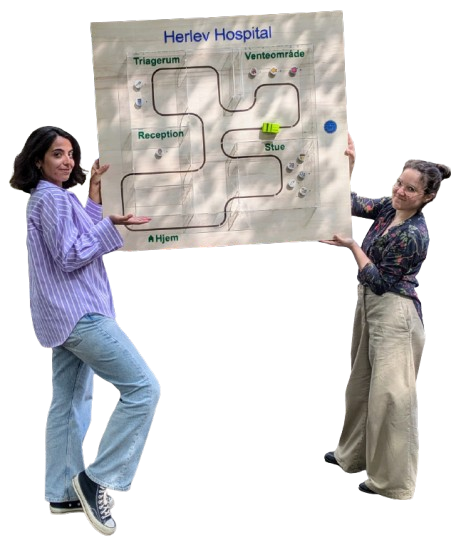
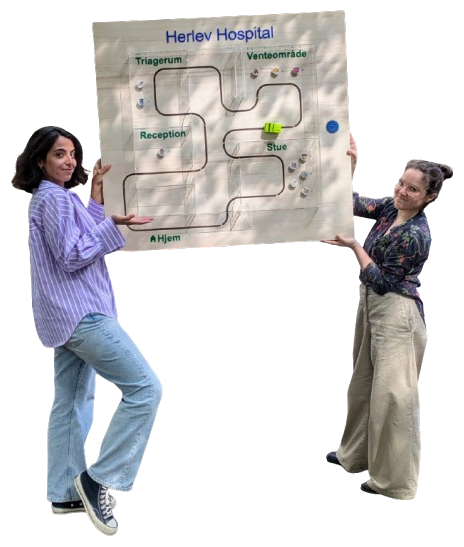
bubble closing functonality

diff --git a/src/content/aboutStickers.ts b/src/content/aboutStickers.ts
@@ -18,6 +18,7 @@ export type AboutSticker = {
     href: string
     label: string
   }
+  textAfterLink?: string
   position: string
   size: string
   rotation: string
@@ -26,33 +27,33 @@ export type AboutSticker = {
 
 export const aboutStickers: AboutSticker[] = [
   {
-    id: 'basketball',
-    image: basketballSticker,
-    alt: 'Basketball sticker',
-    text: 'Love basketball. Olympiakos!',
-    position: 'bottom-[78%] left-[2%]',
-    size: 'w-[clamp(4.5rem,8vw,6rem)]',
-    rotation: 'rotate-[-9deg]',
-    bubbleSide: 'bottom'
+    id: 'greece',
+    image: greeceSticker,
+    alt: 'Greece sticker',
+    text: "Yep I'm greek. (It's pronounced 'Yeeros' not 'Jairos')",
+    position: 'bottom-[8%] left-[84%]',
+    size: 'w-[clamp(4.5rem,8vw,9rem)]',
+    rotation: 'rotate-[-30deg]',
+    bubbleSide: 'top'
+  },
+  {
+    id: 'bike',
+    image: bikeSticker,
+    alt: 'Bike sticker',
+    text: "Based in Copenhagen. Came for my studies, stayed for the pastries.",
+    position: 'bottom-[72%] left-[40%]',
+    size: 'w-[clamp(4.5rem,8vw,25rem)]',
+    rotation: 'rotate-[6deg]',
+    bubbleSide: 'top'
   },
   {
     id: 'phone',
     image: phoneSticker,
     alt: 'Phone sticker',
-    text: 'Always happy to chat! +4591811810',
-    position: 'bottom-[5%] left-[12%]',
+    text: 'Always happy to chat! +45 91811810',
+    position: 'bottom-[5%] left-[16%]',
     size: 'w-[clamp(4.5rem,8vw,7rem)]',
     rotation: 'rotate-[10deg]',
-    bubbleSide: 'top'
-  },
-  {
-    id: 'greece',
-    image: greeceSticker,
-    alt: 'Greece sticker',
-    text: "Yep I'm greek. (It's pronounced 'Yeeros' not 'Jairos')",
-    position: 'bottom-[8%] left-[82%]',
-    size: 'w-[clamp(4.5rem,8vw,9rem)]',
-    rotation: 'rotate-[0deg]',
     bubbleSide: 'top'
   },
   {
@@ -74,50 +75,42 @@ export const aboutStickers: AboutSticker[] = [
       href: 'https://www.linkedin.com/in/georgia-tsoukala-5144a4245/',
       label: 'LinkedIn',
     },
-    position: 'bottom-[75%] left-[90%]',
+    textAfterLink: '.',
+    position: 'bottom-[75%] left-[92%]',
     size: 'w-[clamp(4.5rem,8vw,5rem)]',
     rotation: 'rotate-[15deg]',
-    bubbleSide: 'top'
-  },
-  {
-    id: 'bike',
-    image: bikeSticker,
-    alt: 'Bike sticker',
-    text: "Based in Copenhagen.",
-    position: 'bottom-[72%] left-[40%]',
-    size: 'w-[clamp(4.5rem,8vw,25rem)]',
-    rotation: 'rotate-[6deg]',
     bubbleSide: 'top'
   },
   {
     id: 'github',
     image: githubSticker,
     alt: 'Github sticker',
-    text: "Wanna take a closer look at my projects?",
+    text: "Wanna take a closer look at my",
     link: {
       href: 'https://github.com/GeorgiaTsoukala',
       label: 'Github',
     },
+    textAfterLink: ' projects?',
     position: 'bottom-[22%] left-[35%]',
     size: 'w-[clamp(4.5rem,8vw,5.5rem)]',
     rotation: 'rotate-[-6deg]',
-    bubbleSide: 'top'
+    bubbleSide: 'bottom'
   },
   {
-    id: 'dtuCompute',
-    image: dtuComputeSticker,
-    alt: 'DtuCompute sticker',
-    text: "I was a TA.",
-    position: 'bottom-[65%] left-[23%]',
-    size: 'w-[clamp(4.5rem,8vw,5rem)]',
-    rotation: 'rotate-[3deg]',
+    id: 'bachelor',
+    image: masterSticker,
+    alt: 'Master sticker',
+    text: "Electrical & Computer Engineering survivor 🎓. UTh is where I learned to code and where it all started!",
+    position: 'bottom-[33%] left-[7%]',
+    size: 'w-[clamp(4.5rem,8vw,7rem)]',
+    rotation: 'rotate-[-5deg]',
     bubbleSide: 'top'
   },
   {
     id: 'internship',
     image: internshipSticker,
     alt: 'Internship sticker',
-    text: "Yep I'm greek. (It's pronounced 'Yeeros' not 'Jairos')",
+    text: "Interning at Theron Engineering was where I helped coordinate projects and saw how different engineering fields work together.",
     position: 'bottom-[2%] left-[55%]',
     size: 'w-[clamp(4.5rem,8vw,9rem)]',
     rotation: 'rotate-[4deg]',
@@ -127,10 +120,30 @@ export const aboutStickers: AboutSticker[] = [
     id: 'master',
     image: masterSticker,
     alt: 'Master sticker',
-    text: "master at DTU 🎓",
-    position: 'bottom-[80%] left-[63%]',
+    text: "That’s me, my thesis partner and our prototype for Herlev Hospital. My Human-Centered AI Master’s at DTU shifted my focus to the people who use my code.",
+    position: 'bottom-[83%] left-[63%]',
     size: 'w-[clamp(4.5rem,8vw,7rem)]',
     rotation: 'rotate-[-5deg]',
+    bubbleSide: 'bottom'
+  },
+  {
+    id: 'dtuCompute',
+    image: dtuComputeSticker,
+    alt: 'DtuCompute sticker',
+    text: "As a TA for Personal Data Interaction, I helped students tackle the world of HCI and data visualization.",
+    position: 'bottom-[65%] left-[23%]',
+    size: 'w-[clamp(4.5rem,8vw,5rem)]',
+    rotation: 'rotate-[4deg]',
+    bubbleSide: 'top'
+  },
+  {
+    id: 'basketball',
+    image: basketballSticker,
+    alt: 'Basketball sticker',
+    text: 'Long-time basketball player, full-time Olympiakos fan 🔴⚪.',
+    position: 'bottom-[78%] left-[4%]',
+    size: 'w-[clamp(4.5rem,8vw,6rem)]',
+    rotation: 'rotate-[-20deg]',
     bubbleSide: 'bottom'
   },
 ]

diff --git a/src/sections/About.tsx b/src/sections/About.tsx
@@ -16,19 +16,22 @@ const About = () => {
     setOpenStickerId(stickerId)
   }
 
-
   return (
     <section
       id="about"
       className="h-screen snap-start p-6 md:p-10"
     >
-      <div className="relative h-full w-full">
+      <div 
+        className="relative h-full w-full"
+        onClick={() => setOpenStickerId(null)} // Preventing sticker/bubble clicks from triggering the close handler
+      >
 
         {/* Create one sticker block per object in aboutStickers array*/}
         {aboutStickers.map((sticker) => (
           <div
             key={sticker.id}
             className={`absolute ${sticker.position} ${openStickerId === sticker.id ? 'z-20' : 'z-10'}`}
+            onClick={(event) => event.stopPropagation()}
           >
             {/* Clickable sticker */}
             <button
@@ -67,6 +70,7 @@ const About = () => {
                         {sticker.link.label}
                       </a>
                     ) : null}
+                    {sticker.textAfterLink}
                   </p>
                   <div
                     className={`absolute left-1/2 h-4 w-4 -translate-x-1/2 rotate-45 bg-black ${
